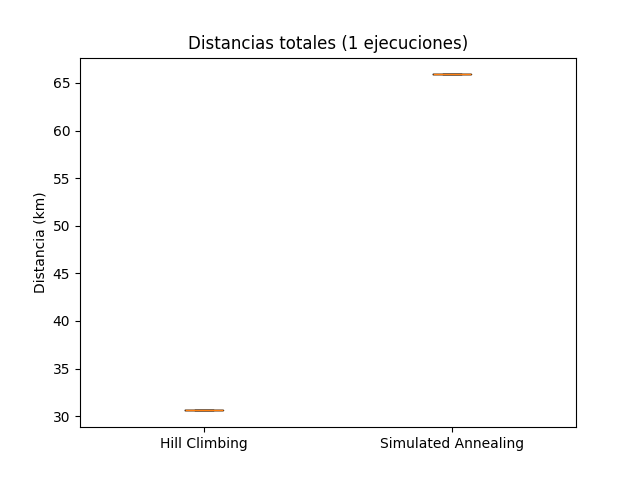
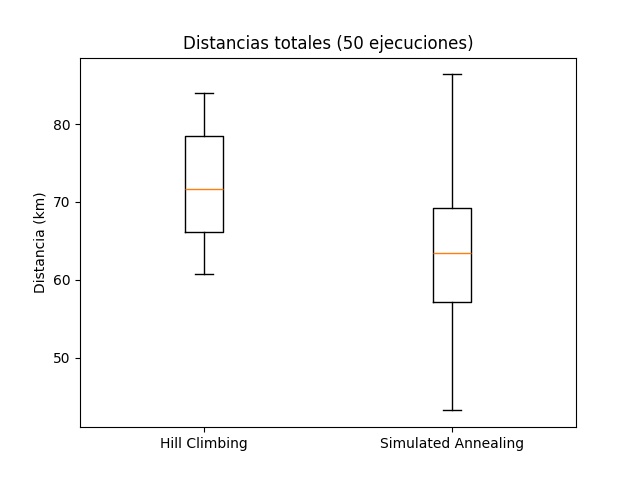
simulated annealing millor

diff --git a/main.py b/main.py
@@ -151,7 +151,7 @@ def mejor_initial_state(initial_strategies: list = [0, 1, 2], iteraciones: int =
     plt.savefig('experimento2.png', format='png')  # Guardar gráfico como PNG
     plt.show()
 
-def comparar_resultados_HC_SA(HC: bool = True, SA: bool = True, iterations: int = 10, opt: int = 2, schedule_sa = None, beneficios_bool: bool = True, tiempos_bool: bool = True, distancias_bool: bool = True) -> Union[None, list]:
+def comparar_resultados_HC_SA(HC: bool = True, SA: bool = True, iterations: int = 10, opt: int = 2, schedule_sa = None, beneficios_bool: bool = True, tiempos_bool: bool = True, distancias_bool: bool = True, ocultar_progreso: bool = False) -> Union[None, list]:
     """
     Realiza los experimentos con Hill Climbing y Simulated Annealing y genera las gráficas de los resultados.
     Se pueden desactivar los experimentos que no se quieran realizar.
@@ -163,7 +163,8 @@ def comparar_resultados_HC_SA(HC: bool = True, SA: bool = True, iterations: int 
     tiempos_SA, beneficios_SA, distancias_SA = [], [], []
 
     for i in range(iterations):
-        print(f"PROGRESO: {round((i/iterations)*100, 1)}%", end='\r')
+        if not ocultar_progreso:
+            print(f"PROGRESO: {round((i/iterations)*100, 1)}%", end='\r')
         
         # Generación del estado inicial
         initial_state = generate_initial_state(opt=opt)
@@ -231,16 +232,26 @@ def comparar_resultados_HC_SA(HC: bool = True, SA: bool = True, iterations: int 
 
 def encontrar_parametros_SA(opt: int = 2, iteraciones_por_valor: int = 10, operadores_activos: dict = {operator: True for operator in params.operadores_modificables}) -> tuple:
     resultados_SA = []
-    
-    for k in np.arange(0, 500, 1):
-        for lam in np.arange(0, 1, 0.0005):
-            def exp_schedule(t, k: float=k, lam: float=lam):
-                return k * exp(-lam * t)
+
+    min_k, max_k, inc_k = 0, 50, 5
+    min_lam, max_lam, inc_lam = 0, 0.5, 0.0005
+    limit = 10
+
+    num_valores_comprobados = ((max_k-min_k)/inc_k) * ((max_lam-min_lam)/inc_lam)
+    num_valor = 0
+    for k in np.arange(min_k, max_k, inc_k):
+        for lam in np.arange(min_lam, max_lam, inc_lam):
+            def exp_schedule(k: float=k, lam: float=lam, limit: int=limit):
+                return lambda t: (k * exp(-lam * t)) if t < limit else 0
             
-            resultados_iteraciones = comparar_resultados_HC_SA(HC=False, SA=True, iterations=iteraciones_por_valor, opt=opt, schedule_sa=exp_schedule, beneficios_bool=False, tiempos_bool=False, distancias_bool=False)
+            num_valor += 1
+            print(f"PROGRESO: [{num_valor}/{num_valores_comprobados}]", end='\r')
+            resultados_iteraciones = comparar_resultados_HC_SA(HC=False, SA=True, iterations=iteraciones_por_valor, opt=opt, schedule_sa=exp_schedule(), beneficios_bool=False, tiempos_bool=False, distancias_bool=False, ocultar_progreso=True)
             promedio_iteraciones = sum(resultados_iteraciones)/iteraciones_por_valor
             resultados_SA.append((promedio_iteraciones, k, lam))
 
+    print("TODOS LOS VALORES COMPORBADOS, GENERANDO GRÁFICOS...")
+    
     # Nos quedamos con el mejor resultado
     mejor_resultado = max(resultados_SA, key=lambda x: x[0])
     best_k, best_lambda = mejor_resultado[1], mejor_resultado[2]
@@ -267,10 +278,9 @@ def encontrar_parametros_SA(opt: int = 2, iteraciones_por_valor: int = 10, opera
     ax.set_zlabel('Beneficio (€)')
 
     plt.savefig("parametros_SA.png")
-    plt.show()
     plt.close()
 
-    return best_k, best_lambda
+    return best_k, best_lambda, limit
 
 
 ##############################################################################################################################
@@ -309,12 +319,12 @@ if __name__ == "__main__":
     #mejor_initial_state(iteraciones=100)
 
 # Experimento 3 ----------------------------------------------------------------------------------
-    #k, lam = encontrar_parametros_SA(opt=2, iteraciones_por_valor=10)
+    k, lam, limit = encontrar_parametros_SA(opt=2, iteraciones_por_valor=1)
 
-    def exp_schedule(t, k: float=0, lam: float=0):
-        return k * exp(-lam * t)
+    def exp_schedule(k: float=k, lam: float=lam, limit: int=limit):
+        return lambda t: (k * exp(-lam * t)) if t < limit else 0
     
-    comparar_resultados_HC_SA(opt=2, HC=True, SA=True, iterations=50, schedule_sa=exp_schedule)
+    comparar_resultados_HC_SA(opt=2, HC=True, SA=True, iterations=50, schedule_sa=exp_schedule())
 
 # Experimento 4 ----------------------------------------------------------------------------------
     

diff --git a/parameters_bicing.py b/parameters_bicing.py
@@ -15,7 +15,7 @@ params = Parameters(n_estaciones=25, \
 					n_bicicletas=1250, \
 						n_furgonetas=5, \
 							seed=42, \
-								coste_transporte=True, \
+								coste_transporte=False, \
 									operadores_modificables={'CambiarOrdenDescarga', \
 								  'IntercambiarEstacionDescarga', \
 									'IntercambiarEstacionCarga', \
